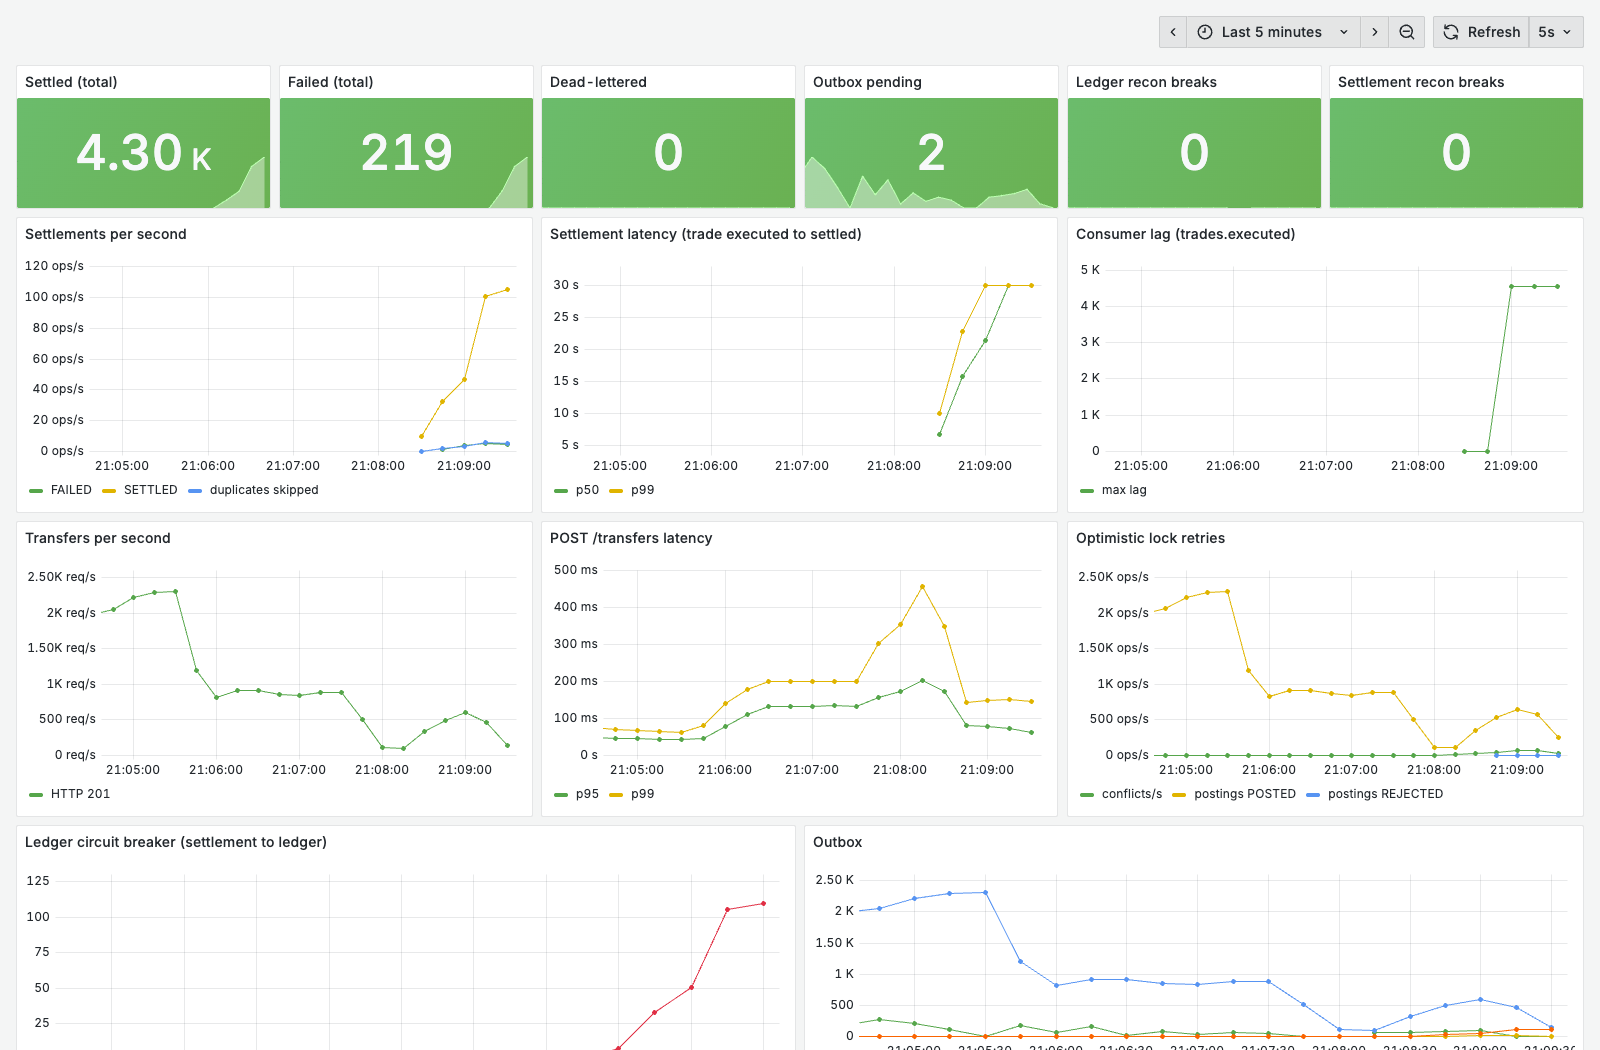
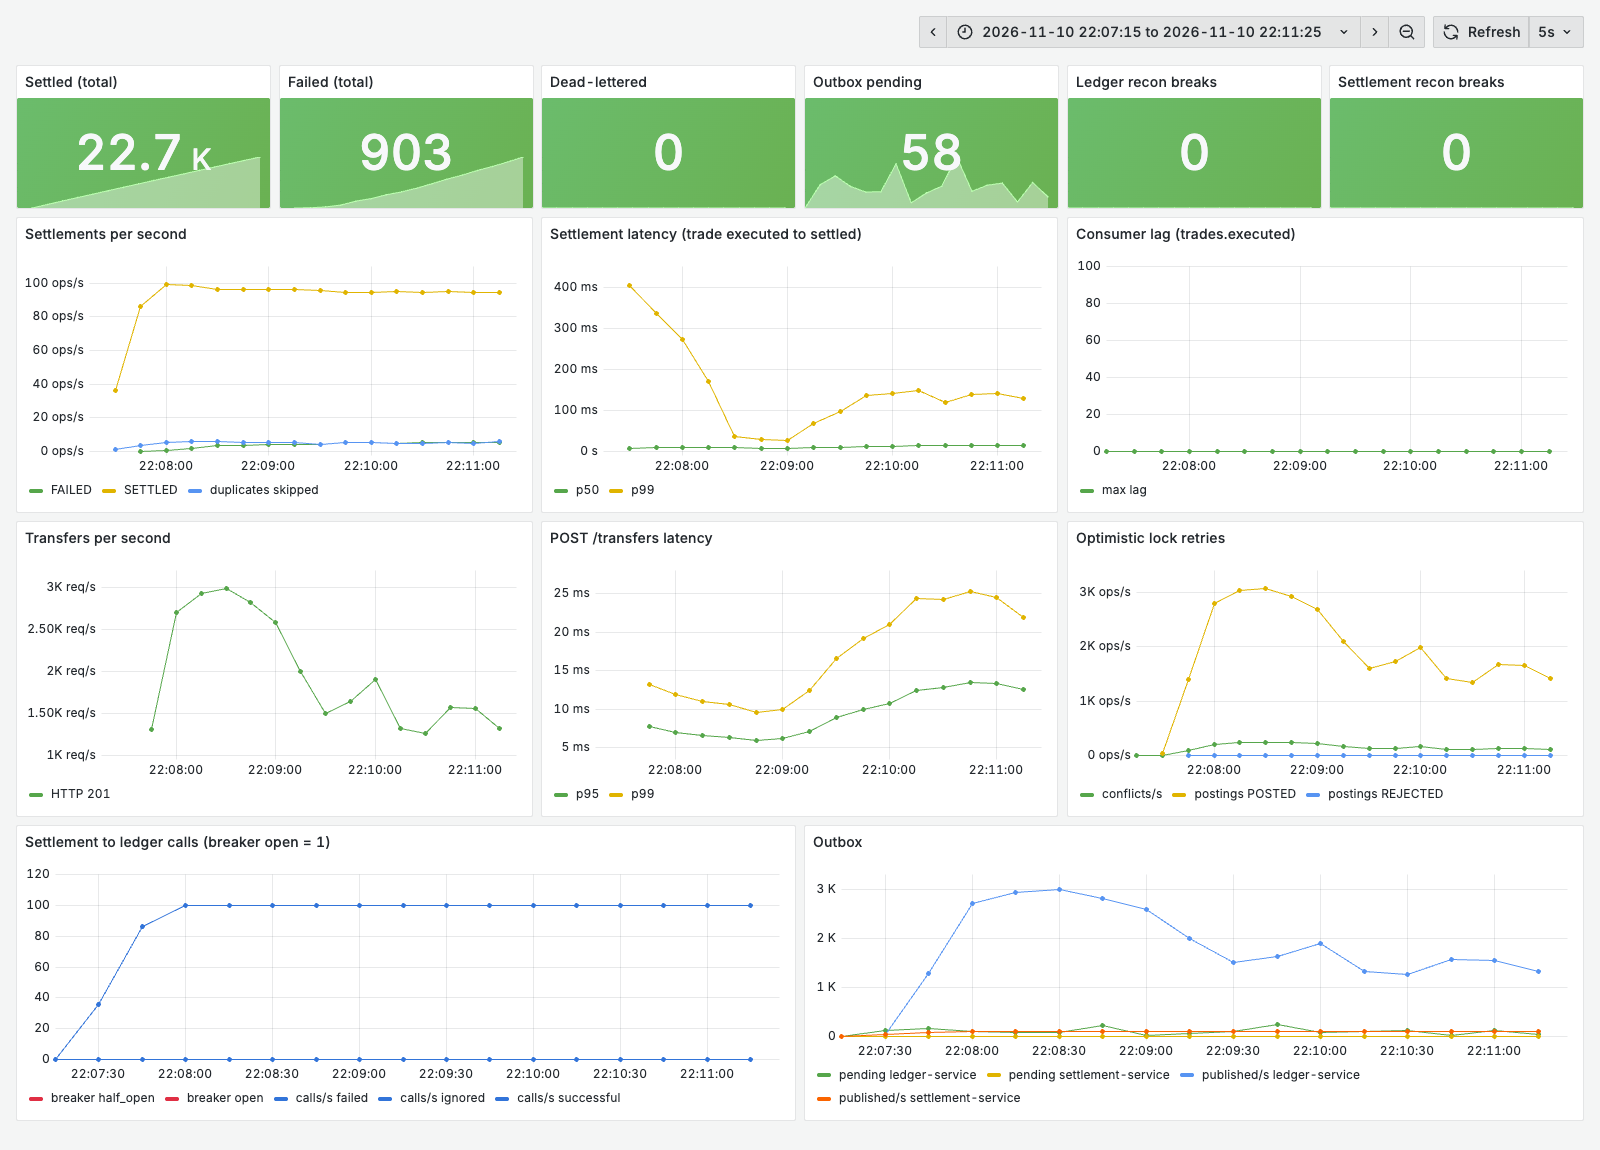
use a steady-load grafana screenshot with a caption

diff --git a/README.md b/README.md
@@ -212,4 +212,11 @@ debezium/            CDC connector config
 scripts/             e2e, chaos, load and latency scripts
 ```
 
+## Grafana
+
 ![grafana](screenshots/grafana.png)
+
+Steady load on a fresh stack: 100 trades/s from the simulator across 200 traders, plus k6 transfers
+at 10 virtual users, for about 4 minutes. Consumer lag stays at 0 and the circuit breaker never opens.
+The higher settlement p99 in the first minute is JVM warm-up. "Outbox pending" counts events waiting
+for the next 100 ms poll.
